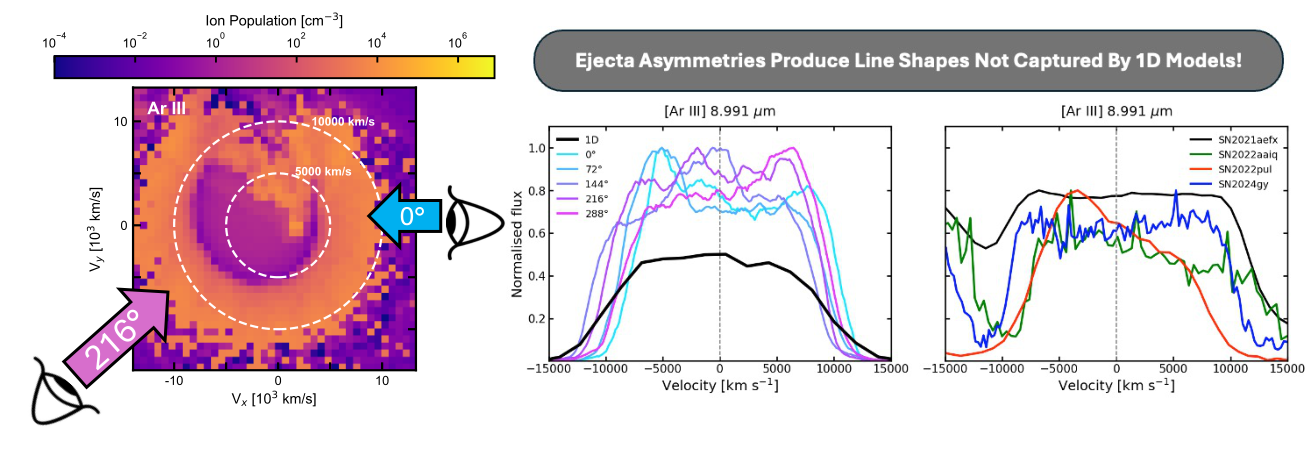
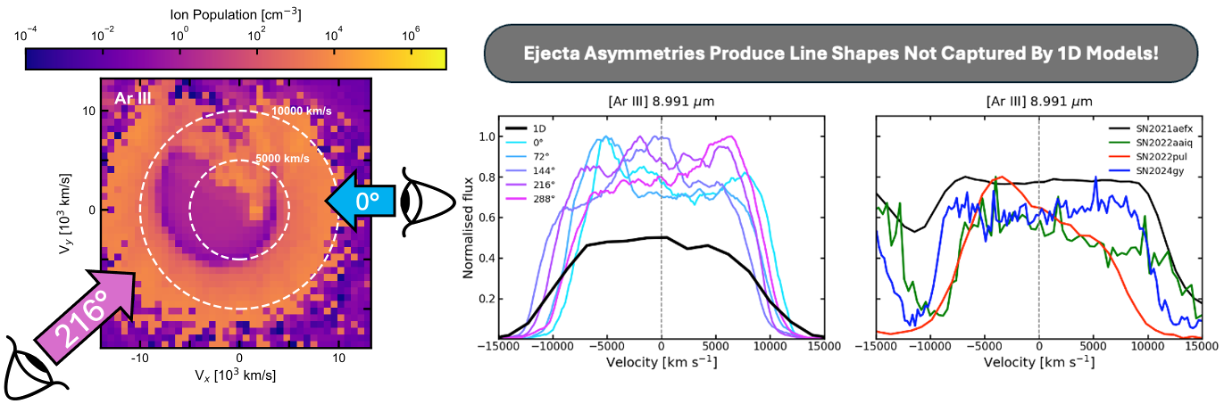
Updated Website

Changed region(s): [[0.0, 0.0297, 1.0, 1.0], [0.1552, 0.9208, 0.2484, 0.9505], [0.8382, 0.3267, 0.8693, 0.3564]]

diff --git a/index.html b/index.html
@@ -480,6 +480,10 @@
 						<img src="images/Light_curve_evolution.png" alt="Schematic figure illustrating the diffusion phase, early tail phase, and late tail phase of supernova light-curve evolution" />
 						<p class="figure-caption">Different phases of supernova evolution probe different ejecta layers. Late-time calculations are especially powerful for connecting radiative transfer, nucleosynthesis, and the inner structure of the explosion.</p>
 					</div>
+					<div class="figure-panel">
+						<img src="images/Viewing_Angles.png" alt="Schematic figure illustrating the diffusion phase, early tail phase, and late tail phase of supernova light-curve evolution" />
+						<p class="figure-caption">For the first time, it is now possible to make observer-dependent NLTE spectral predictions for modern 3D explosion models. In Pollin et al. (2025), I presented the first such predictions, demonstrating that variations in line profiles arise directly from the ejecta geometry. This links spectral features to the underlying explosion structure—information inaccessible to 1D models. The resulting variations are substantial, comparable to those observed in recent JWST data.</p>
+					</div>
 
 					<ul class="actions">
 						<li><a href="documents/Joshua_Pollin_CV.pdf" class="button" target="_blank">My CV</a></li>
